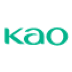
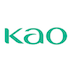
change such as appearance

Changed region(s): [[0.0556, 0.3611, 0.9722, 0.6389]]

diff --git a/app/views/creator.html b/app/views/creator.html
@@ -5,36 +5,27 @@
         <div style="margin:20px 20px 20px 20px">
             <font color="grey" size="2px">
                 <br>
-                <ons-row>
-                    <ons-col align="right">
-                        <div style="margin:35px 30px 0px 0px">
-                            <img ng-src="images/profile.jpg" width="60">
-                        </div>
-                    </ons-col>
-                    <ons-col align="left">
-                        <div style="margin:12px 0px 0px 0px; line-height:25px">
-                            <font size="1px">
-                                <span class="fa-stack">
-                                    <i class="fa fa-square fa-stack-2x"></i>
-                                    <i class="fa fa-search fa-stack-1x fa-inverse fa-2x"></i>
-                                </span>
-                                http://qiita.com/hkusu<br>
-                                <span class="fa-stack">
-                                    <i class="fa fa-twitter-square fa-stack-2x"></i>
-                                </span>
-                                @h_ku_su<br>
-                                <span class="fa-stack">
-                                    <i class="fa fa-github-square fa-stack-2x"></i>
-                                </span>
-                                https://github.com/hkusu<br>
-                                <span class="fa-stack">
-                                    <i class="fa fa-building-o fa-stack-2x"></i>
-                                </span>
-                                株式会社ゆめみ<br>
-                            </font>
-                        </div>
-                    </ons-col>
-                </ons-row>
+                <div align="left" style="margin:0px 0px 0px 40px; line-height:25px">
+                    <font size="1px">
+                        <span class="fa-stack" style="color:#4298ED">
+                            <i class="fa fa-twitter-square fa-stack-2x"></i>
+                        </span>
+                        @h_ku_su<br>
+                        <span class="fa-stack" style="color:#4cb10d">
+                            <i class="fa fa-square fa-stack-2x"></i>
+                            <i class="fa fa-search fa-stack-1x fa-inverse fa-2x"></i>
+                        </span>
+                        http://qiita.com/hkusu<br>
+                        <span class="fa-stack" style="color:#262626">
+                            <i class="fa fa-github-square fa-stack-2x"></i>
+                        </span>
+                        https://github.com/hkusu<br>
+                        <span class="fa-stack" style="color:dimgray">
+                            <i class="fa fa-building-o fa-stack-2x"></i>
+                        </span>
+                        株式会社ゆめみ（http://yumemi.co.jp）<br>
+                    </font>
+                </div>
                 <br>
                 <br>
                 <ons-button ng-click="ons.screen.dismissPage()"><i class="fa fa-times-circle" style="font-size:14px"></i>&nbsp;閉じる</ons-button>

diff --git a/app/views/top.html b/app/views/top.html
@@ -9,20 +9,24 @@
                  ng-intro-method="CallMe"
                  ng-intro-autostart="false">
                 <br>
-                <img ng-src="images/kao_common_header_ci.gif" width="120">
                 <br>
+                <img ng-src="images/logo120w.png">
                 <br>
-                <span ng-click="CallMe()">
-                    <font color="grey" size="2px">
+                <span ng-click="CallMe()" style="margin:0px 0px 0px 0px">
+                    &nbsp;&nbsp;&nbsp;&nbsp;&nbsp;&nbsp;&nbsp;&nbsp;&nbsp;&nbsp;&nbsp;&nbsp;&nbsp;&nbsp;&nbsp;&nbsp;&nbsp;&nbsp;&nbsp;&nbsp;<br>
+                    <font color="grey" size="4px">
                         <font color="green"><i class="fa fa-shield"></i></font>&nbsp;<u><font color="deeppink">つかいかた</font></u>
                     </font>
+                    <br>
+                    &nbsp;&nbsp;&nbsp;&nbsp;&nbsp;&nbsp;&nbsp;&nbsp;&nbsp;&nbsp;&nbsp;&nbsp;&nbsp;&nbsp;&nbsp;&nbsp;&nbsp;&nbsp;&nbsp;&nbsp;<br>
                 </span>
-                <div align="left">&nbsp;&nbsp;<span id="step4">&nbsp;&nbsp;&nbsp;&nbsp;</span></div>
                 <ons-button ng-click="showBrand()"><span id="step1"><i class="fa fa-search" style="font-size:14px"></i>&nbsp;</span>ブランドから探す</ons-button>
+                <div align="left">&nbsp;&nbsp;<span id="step4">&nbsp;&nbsp;&nbsp;&nbsp;</span></div>
+                &nbsp;<ons-button ng-click="showCategory()"><span id="step2"><i class="fa fa-search" style="font-size:14px"></i>&nbsp;</span>&nbsp;&nbsp;目的から探す&nbsp;&nbsp;&nbsp;&nbsp;&nbsp;&nbsp;</ons-button>
                 <br>
-                <br>
-                <ons-button ng-click="showCategory()"><span id="step2"><i class="fa fa-search" style="font-size:14px"></i>&nbsp;</span>&nbsp;&nbsp;&nbsp;目的から探す&nbsp;&nbsp;&nbsp;&nbsp;&nbsp;</ons-button>
-                <br>
+                <span ng-click="ons.screen.presentPage('views/about.html')">&nbsp;&nbsp;&nbsp;&nbsp;&nbsp;&nbsp;&nbsp;&nbsp;&nbsp;&nbsp;&nbsp;&nbsp;&nbsp;&nbsp;&nbsp;&nbsp;&nbsp;&nbsp;&nbsp;&nbsp;&nbsp;&nbsp;&nbsp;&nbsp;&nbsp;&nbsp;&nbsp;&nbsp;&nbsp;</span>
+                &nbsp;&nbsp;
+                <span ng-click="ons.screen.presentPage('views/creator.html')">&nbsp;&nbsp;&nbsp;&nbsp;&nbsp;&nbsp;&nbsp;&nbsp;&nbsp;&nbsp;</span>
                 <br>
                 <span ng-click="ons.screen.presentPage('views/about.html')">
                     <font color="grey" size="2px">
@@ -36,6 +40,9 @@
                     </font>
                 </span>
                 <br>
+                <span ng-click="ons.screen.presentPage('views/about.html')">&nbsp;&nbsp;&nbsp;&nbsp;&nbsp;&nbsp;&nbsp;&nbsp;&nbsp;&nbsp;&nbsp;&nbsp;&nbsp;&nbsp;&nbsp;&nbsp;&nbsp;&nbsp;&nbsp;&nbsp;&nbsp;&nbsp;&nbsp;&nbsp;&nbsp;&nbsp;&nbsp;&nbsp;&nbsp;</span>
+                &nbsp;&nbsp;
+                <span ng-click="ons.screen.presentPage('views/creator.html')">&nbsp;&nbsp;&nbsp;&nbsp;&nbsp;&nbsp;&nbsp;&nbsp;&nbsp;&nbsp;</span>
             </div>
         </ons-scroller>
     </ons-page>

diff --git a/app/views/about.html b/app/views/about.html
@@ -5,16 +5,23 @@
         <ons-scroller>
             <div ng-controller="AboutCtrl" style="margin:20px 20px 20px 20px">
                 <font color="grey" size="2px">
-                    このサイトは&nbsp;<u ng-click="showLink('https://5jcup.org')"><font color="#1e90ff">HTML5 Japan Cup 2014</font></u>&nbsp;の応募作品として個人で作成されたものです。<br>
+                    このサイトは&nbsp;<u ng-click="showLink('https://5jcup.org')"><font color="#1e90ff" size="3px">HTML5 Japan Cup 2014</font></u>&nbsp;の応募作品として個人で作成されたものです。<br>
                     <br>
                     <img ng-src="images/5jCup-logo-horizontal.png"><br>
                     <br>
-                    このサイトの素材は&nbsp;<u ng-click="showLink('https://5jcup.org/awards/kao')"><font color="#1e90ff">こちら</font></u>&nbsp;に記載された利用形態の範囲内で&nbsp;<u ng-click="showLink('http://www.kao.com/jp/products/')"><font color="#1e90ff">花王製品カタログサイト</font></u>&nbsp;から取得し利用しています。<br>
+                    このサイトの素材は&nbsp;<u ng-click="showLink('https://5jcup.org/awards/kao')"><font color="#1e90ff" size="3px">こちら</font></u>&nbsp;に記載された利用形態の範囲内で&nbsp;<u ng-click="showLink('http://www.kao.com/jp/products/')"><font color="#1e90ff" size="3px">花王製品カタログサイト</font></u>&nbsp;から取得し利用しています。<br>
                     <br>
+                    <span ng-click="showLink('http://hkusu.github.io/gp-kao-catalog')">
+                        HTML版URL&nbsp;<i class="fa fa-html5"></i>：
+                        <br>
+                        <font color="#1e90ff">http://hkusu.github.io/gp-kao-catalog</font><br>
+                    </span>
                     <br>
-                    HTML版URL&nbsp;<i class="fa fa-html5"></i>：<u ng-click="showLink('http://hkusu.github.io/gp-kao-catalog')"><font color="#1e90ff">http://hkusu.github.io/gp-kao-catalog</font></u><br>
-                    Androidアプリ版&nbsp;<i class="fa fa-android"></i>：<u ng-click="showLink('http://○○○○○○○○○○○○○')"><font color="#1e90ff">http://○○○○○○○○○○○○○</font></u><br>
-                    <br>
+                    <span ng-click="showLink('https://play.google.com/store/apps/details?id=io.github.hkusu.catalog.kao')">
+                        Androidアプリ版ダウンロードURL&nbsp;<i class="fa fa-android"></i>：
+                        <br>
+                        <font color="#1e90ff">https://play.google.com/store/apps/details?id=io.github.hkusu.catalog.kao</font><br>
+                    </span>
                     <br>
                     お問い合わせ&nbsp;<i class="fa fa-envelope-o"></i>：kusu0806@gmail.com
                     <br>

diff --git a/app/scripts/controllers/main.js b/app/scripts/controllers/main.js
@@ -41,7 +41,7 @@ angular.module('kaoCatalogApp')
                 {
                     element: '#step4',
                     intro: "スライドメニューは画面を右にフリックしても開くことができます。",
-                    position: 'right'
+                    position: 'top'
                 }
             ],
             showStepNumbers: false,
